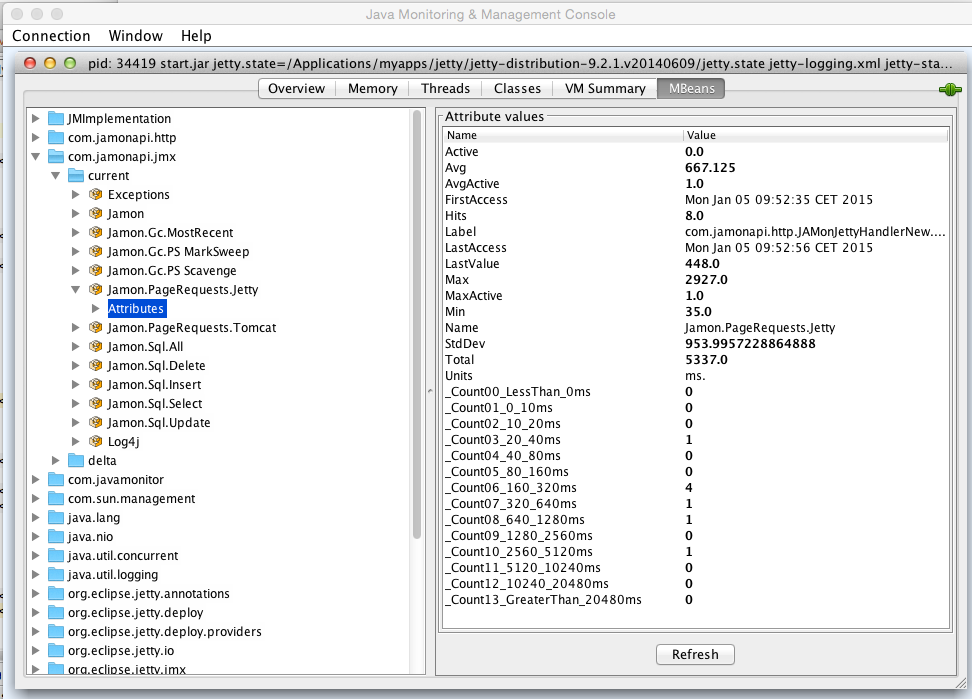
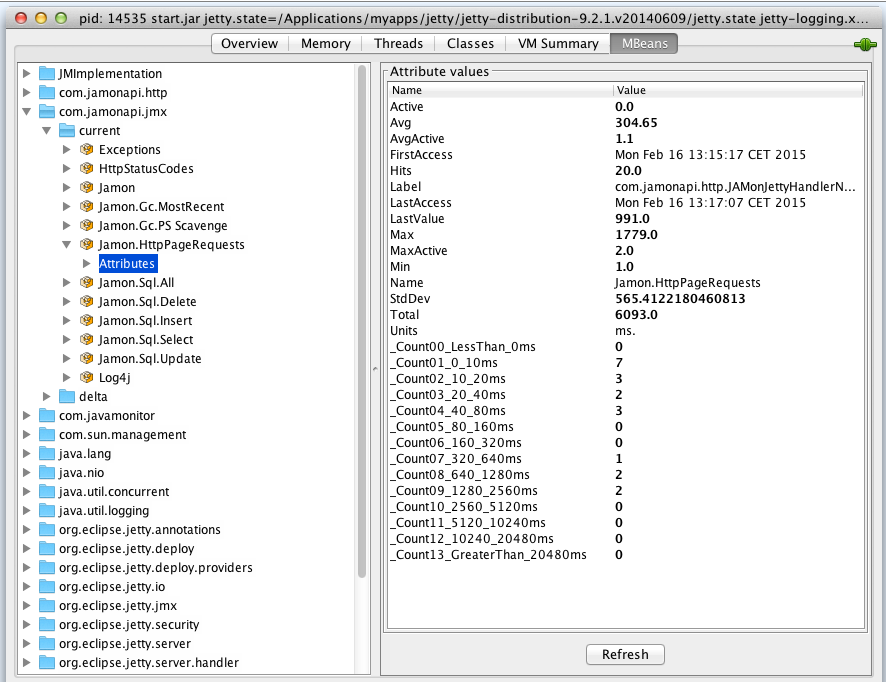
httpStatus XX - updated documentation

Changed region(s): [[0.0, 0.0, 1.0, 1.0], [0.6704, 0.739, 0.7314, 0.8622], [0.7009, 0.6466, 0.7314, 0.7082]]

diff --git a/src/JAMonUsersGuide/jmx_jamon.html b/src/JAMonUsersGuide/jmx_jamon.html
@@ -71,8 +71,8 @@
     <ul>
     <li>To enable this capability <a href="http_monitoring.html">JAMon http monitoring</a>
     must be enabled.</li>
-    <li>If the web container is Jetty then the the JMX labeled 'Jamon.PageRequests.Jetty' will have metrics in it, and if Tomcat is the container then 'Jamon.PageRequests.Tomcat'
-    will have metrics.  Note: If you are using a different web container you can still track page request metrics by using <a href="#custommetrics">JAMon Custom Metrics</a>.</li>
+    <li>The metrics can either appear as 'Jamon.HttpPageRequests' or a label associated with the server type such as 'Jamon.PageRequests.Jetty' or 'Jamon.PageRequests.Tomcat'.
+      Note: If you are using a different web container you can still track page request metrics by using <a href="#custommetrics">JAMon Custom Metrics</a>.</li>
     <li>As you can see below the following are tracked for the page requests: hits, average execution time, max execution time and all the other standard JAMon metrics.  '_Count08_640_1280ms'
     contains the count of page hits that took between 640 and 1280 ms.  The same principal applies to the other similarly named fields.</li>
     </ul>
